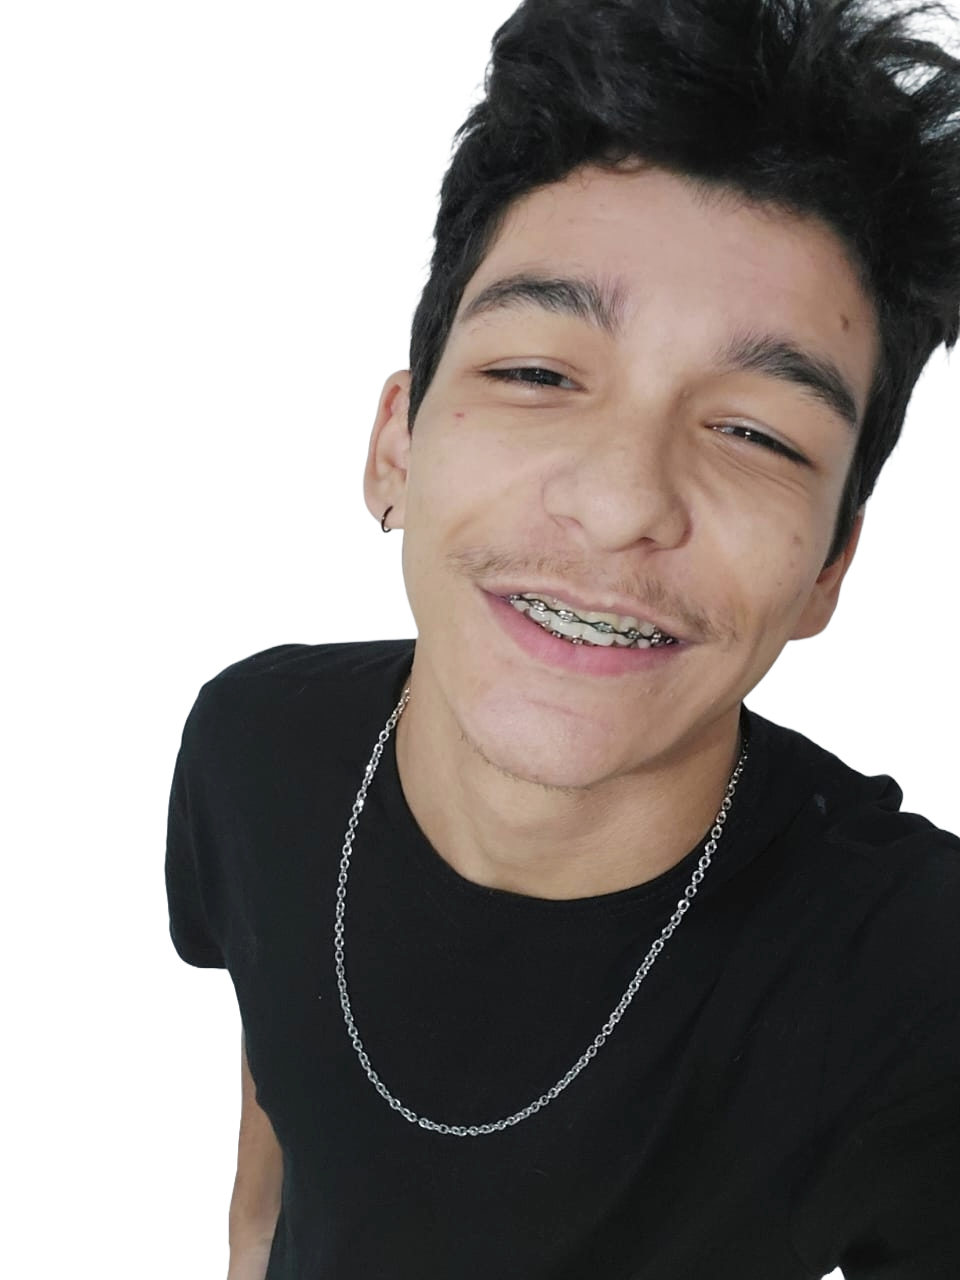
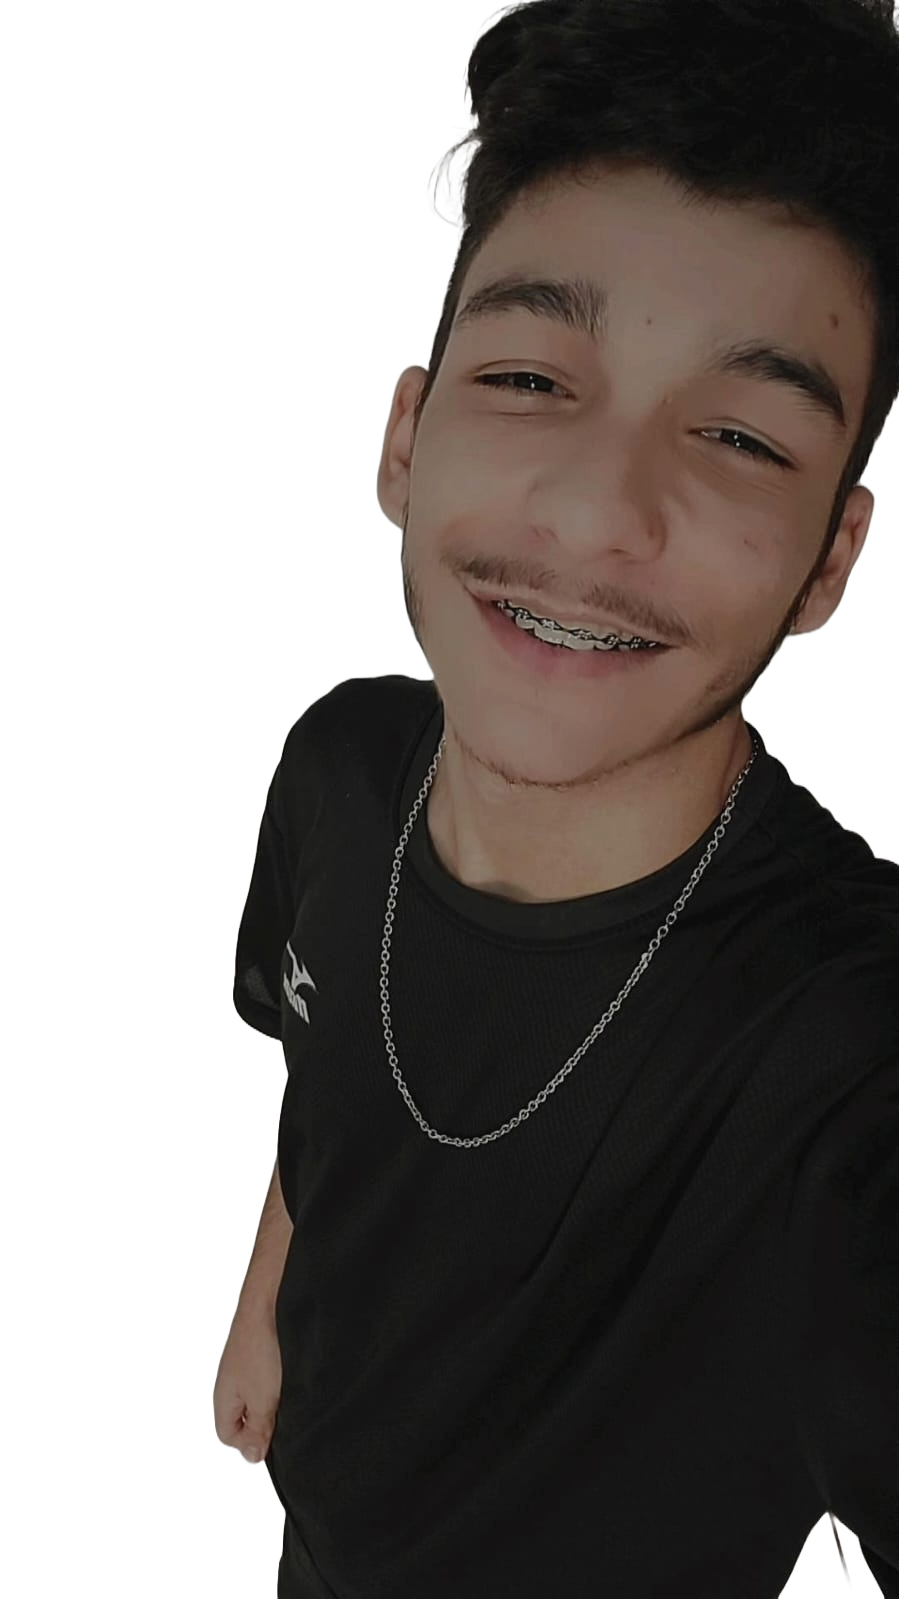
Add files via upload

diff --git a/index.html b/index.html
@@ -77,7 +77,6 @@
     </a>
 </div>
 
-
             <div>
                 <a href="#" class="btn">Download CV</a>
             </div>            
@@ -86,7 +85,7 @@
         <div class="home-img">
             <img src="./Assets/FotoCurriculo.png" alt="foto home">
         </div>
-y
+
     </section>
     <!-- /home section -->
 
@@ -105,7 +104,7 @@ y
                 <h3>Front-End</h3>
 
                 <p>
-                   Desenvolvedor Web em Front-End (HTML, CSS e JavaScript).
+                   Desenvolvedor JR em Front-End (HTML, CSS e JavaScript), sempre buscando aprimorar meus conhecimentos.
                 </p>
 
                 <a href="#" class="btn">Veja Mais</a>
@@ -119,7 +118,7 @@ y
                 <h3>Back-End Development</h3>
 
                 <p>
-                    JR em Back-End, em busca de aprender e aprimorar meus conhecimentos na área.
+                    Desenvolvedor JR em Back-End, em busca de aprender e aprimorar meus conhecimentos na área.
                 </p>
 
                 <a href="#" class="btn">Veja Mais</a>
@@ -133,7 +132,7 @@ y
                 <h3>Mobile Development</h3>
 
                 <p>
-                    Desenvolvedor Mobile. Atualmente ainda em aprendizado em MySQL
+                    Desenvolvedor JR Mobile. Em aprendizado em MySQL
                 </p>
 
                 <a href="#" class="btn">Veja Mais</a>
@@ -210,7 +209,8 @@ y
                     <h4>Web Development</h4>
 
                     <p>
-                        Lorem ipsum dolor sit, amet consectetur adipisicing elit. Expedita excepturi tempore modi quisquam quibusdam error et velit doloribus cum. 
+                        Lorem ipsum dolor sit, amet consectetur adipisicing elit. Expedita excepturi tempore modi quisquam quibusdam error 
+                        et velit doloribus cum. 
                     </p>
 
                     <a href="#"><i class='bx bx-link-external'></i></a>
@@ -286,7 +286,7 @@ y
       <section class="about" id="about">
         <div class="about-img">
 
-         <img src="./Assets/FotoCurriculo.png" alt="About me">   
+         <img src="./Assets/FotoCurriculo2.png" alt="About me">   
 
         </div>
 
